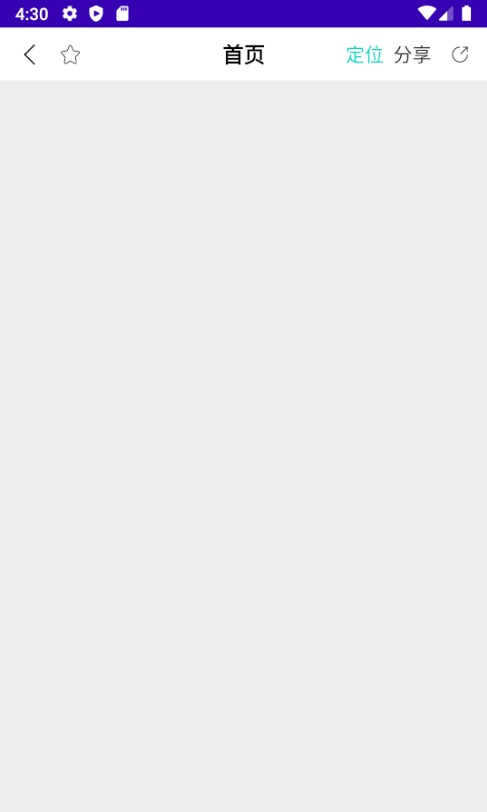
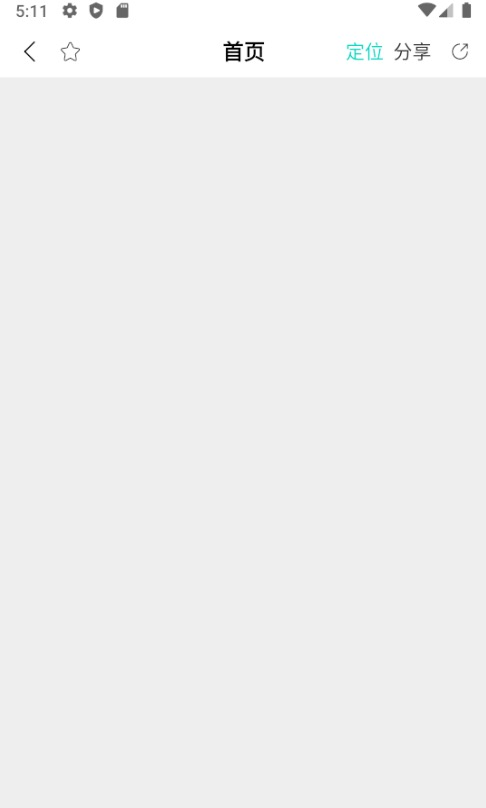
修改代码

Changed region(s): [[0.0, 0.0, 1.0, 0.0928]]

diff --git a/app/src/main/java/com/example/navigationbarkit/StatusBar.kt b/app/src/main/java/com/example/navigationbarkit/StatusBar.kt
@@ -1,0 +1,56 @@
+package com.example.navigationbarkit
+
+import android.app.Activity
+import android.graphics.Color
+import android.os.Build
+import android.view.View
+import android.view.WindowManager
+
+object StatusBar {
+    /**
+     *darkContent true:意味着 白底黑字， false:黑底白字
+     *
+     * statusBarColor  状态栏的背景色
+     *
+     * translucent  沉浸式效果，也就是页面的布局延伸到状态栏之下
+     */
+    fun setStatusBar(
+        activity: Activity,
+        darkContent: Boolean,
+        statusBarColor: Int = Color.WHITE,
+        translucent: Boolean
+    ) {
+
+
+        val window = activity.window
+        val decorView = window.decorView
+        var visibility = decorView.systemUiVisibility
+
+        if (Build.VERSION.SDK_INT >= Build.VERSION_CODES.LOLLIPOP) {
+            //请求系统 绘制状态栏的背景色
+            window.addFlags(WindowManager.LayoutParams.FLAG_DRAWS_SYSTEM_BAR_BACKGROUNDS)
+            //这俩不能同时出现
+            window.clearFlags(WindowManager.LayoutParams.FLAG_TRANSLUCENT_STATUS)
+            window.statusBarColor = statusBarColor
+        }
+
+        if (Build.VERSION.SDK_INT >= Build.VERSION_CODES.M) {
+            visibility = if (darkContent) {
+                //白底黑字--浅色主题
+                visibility or View.SYSTEM_UI_FLAG_LIGHT_STATUS_BAR
+            } else {
+                //黑底白字--深色主题
+                // java  visibility &= ~ View.SYSTEM_UI_FLAG_LIGHT_STATUS_BAR
+                visibility and View.SYSTEM_UI_FLAG_LIGHT_STATUS_BAR.inv()
+            }
+        }
+
+        if (translucent) {
+            //此时 能够使得页面的布局延伸到状态栏之下，但是状图兰的图标 也看不见了-,使得状图兰的图标 恢复可见性
+            visibility =
+                visibility or View.SYSTEM_UI_FLAG_LAYOUT_FULLSCREEN or View.SYSTEM_UI_FLAG_LAYOUT_STABLE
+        }
+
+        decorView.systemUiVisibility = visibility
+    }
+}

diff --git a/app/src/main/java/com/example/navigationbarkit/MainActivity.kt b/app/src/main/java/com/example/navigationbarkit/MainActivity.kt
@@ -19,6 +19,7 @@ import kotlinx.android.synthetic.main.activity_main.*
 class MainActivity : AppCompatActivity() {
     override fun onCreate(savedInstanceState: Bundle?) {
         super.onCreate(savedInstanceState)
+        StatusBar.setStatusBar(this,true,translucent = false)
         setContentView(R.layout.activity_main)
 
         nav_bar.setTitle("首页")
